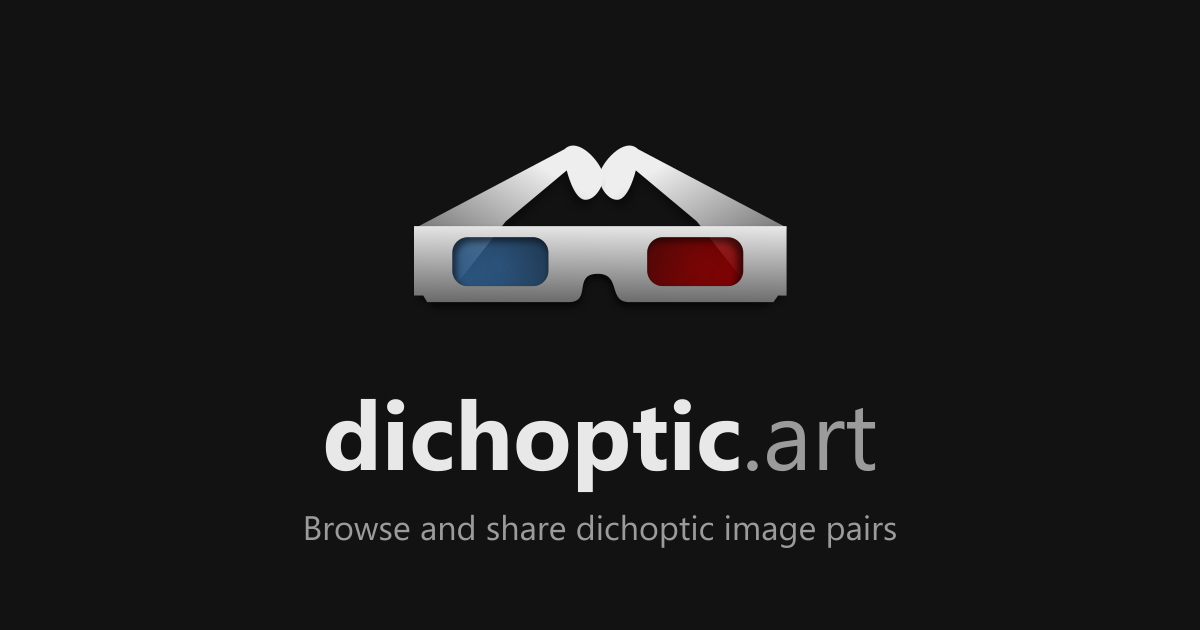
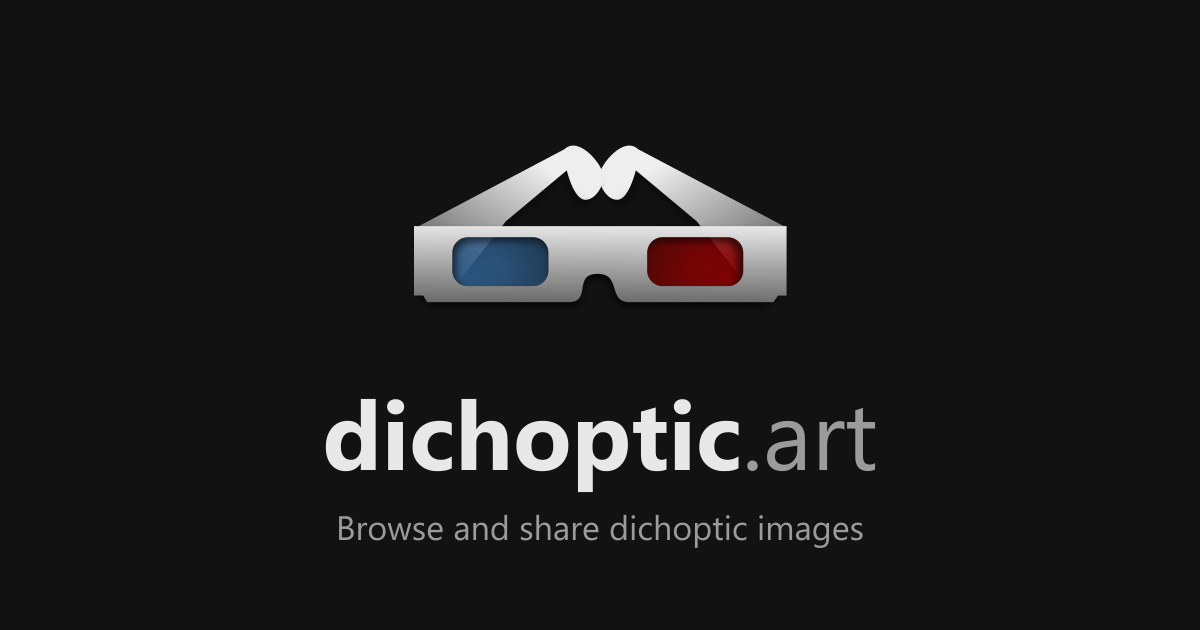
Shorter home preview description

Changed region(s): [[0.2467, 0.8143, 0.74, 0.8746]]

diff --git a/src/routes/+page.svelte b/src/routes/+page.svelte
@@ -3,7 +3,7 @@
 
 	let { data } = $props();
 
-	const description = 'Browse and share dichoptic image pairs: art and photography made for dichoptic color viewing.';
+	const description = 'Browse and share dichoptic images.';
 </script>
 
 <svelte:head>
